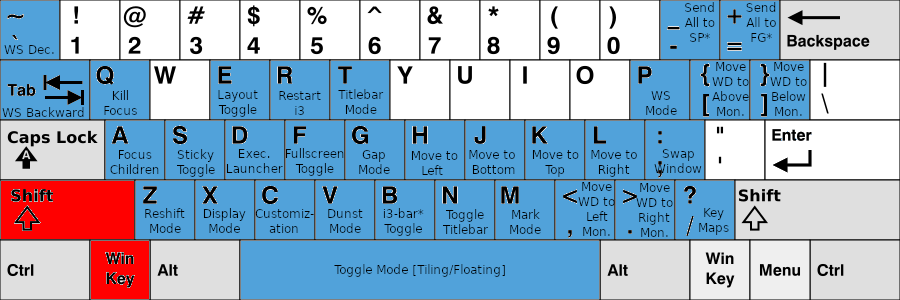
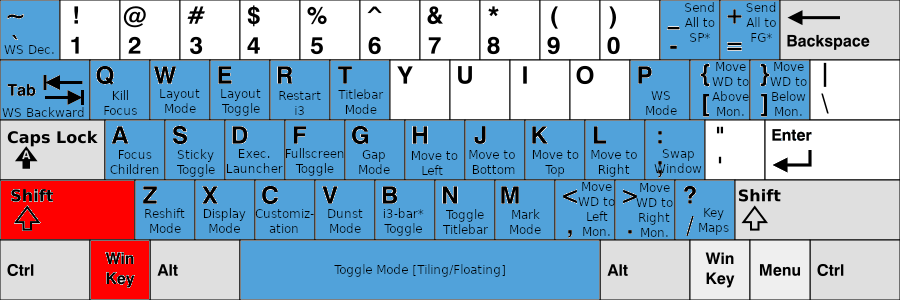
add_wd_layout_mode_and_fix_typo

Changed region(s): [[0.1556, 0.18, 0.3111, 0.42]]

diff --git a/README.md b/README.md
@@ -211,6 +211,8 @@ Created by [gh-md-toc](https://github.com/ekalinin/github-markdown-toc)
             - modify i3 border
 - __Mark mode (`[Winkey]` + `[Shift]` + `[m]`)__
     - mark window, goto/swap marked window, auto-mark function
+- __Window layout mode (`[Winkey]` + `[Shift]` + `[w]`)__
+    - change i3 window layout, e.g. tiling, tabbed, stacking mode, auto-tiling function
 - __Workspace mode (`[Winkey] + [Shift] + [p]`)__
     - manipulate i3 workspace, e.g. swap, save, restore
         - __Swap_workspace mode (`[p]`)__
